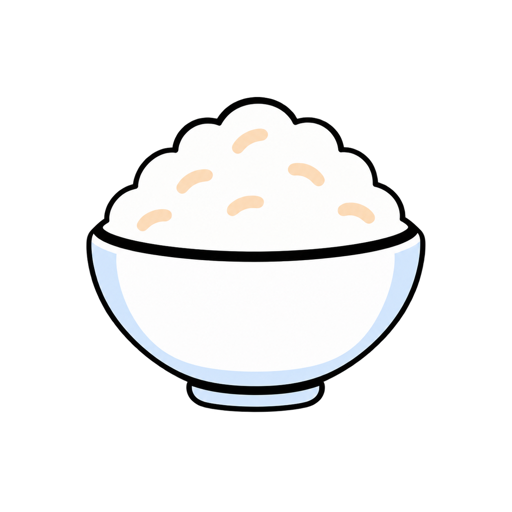
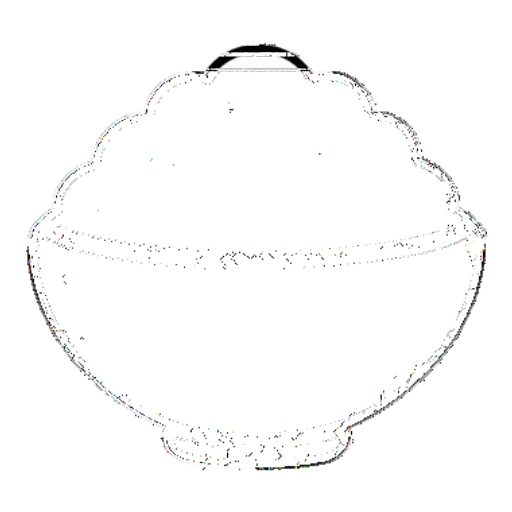
perf: 트래픽 최적화 프리셋 적용 및 게임 개발 가이드 문서화

diff --git a/app/lib/swrConfig.ts b/app/lib/swrConfig.ts
@@ -1,0 +1,85 @@
+import type { SWRConfiguration } from 'swr';
+
+/**
+ * 모여밥 서비스 전역에서 일관된 트래픽 관리를 위해 사용하는 SWR 폴링 프리셋입니다.
+ * Supabase Egress 및 Vercel Function 호출을 최소화하기 위해
+ * 반드시 refreshWhenHidden: false (탭 비활성화 시 폴링 정지)를 포함합니다.
+ */
+export const POLLING_PRESETS = {
+  /**
+   * 실시간 게임 룸 (바둑, 체스, 오목, 알까기, 원나잇 인랑, 퐁, 루미큐브, 폰 등)
+   * - 주요 상태 변경은 Supabase Realtime으로 즉시 수신하되, 네트워크 순단 fallback으로 8초 폴링을 둡니다.
+   */
+  GAME_ROOM: {
+    refreshInterval: 8000,
+    refreshWhenHidden: false,
+    revalidateOnFocus: true,
+    dedupingInterval: 2000,
+  } satisfies SWRConfiguration,
+
+  /**
+   * 팟 상세 화면 (/pots/[id])
+   * - 참여자 변동 및 상태 확인을 위한 10초 폴링
+   */
+  POT_DETAIL: {
+    refreshInterval: 10000,
+    refreshWhenHidden: false,
+    revalidateOnFocus: true,
+    dedupingInterval: 2000,
+  } satisfies SWRConfiguration,
+
+  /**
+   * 메인 팟 목록/현황판 (/)
+   * - 12초 폴링
+   */
+  POT_LIST: {
+    refreshInterval: 12000,
+    refreshWhenHidden: false,
+    revalidateOnFocus: true,
+    dedupingInterval: 2000,
+  } satisfies SWRConfiguration,
+
+  /**
+   * 게임 로비 / 열린 방 목록
+   * - 8초 폴링
+   */
+  GAME_LOBBY: {
+    refreshInterval: 8000,
+    refreshWhenHidden: false,
+    revalidateOnFocus: true,
+    dedupingInterval: 2000,
+  } satisfies SWRConfiguration,
+
+  /**
+   * 게임 랭킹 / 명예의 전당
+   * - 20초 폴링
+   */
+  GAME_RANKING: {
+    refreshInterval: 20000,
+    refreshWhenHidden: false,
+    revalidateOnFocus: true,
+    dedupingInterval: 5000,
+  } satisfies SWRConfiguration,
+
+  /**
+   * 팟 및 게임 채팅 fallback
+   * - 6초 폴링
+   */
+  CHAT_FALLBACK: {
+    refreshInterval: 6000,
+    refreshWhenHidden: false,
+    revalidateOnFocus: true,
+    dedupingInterval: 2000,
+  } satisfies SWRConfiguration,
+
+  /**
+   * 내 참여 팟 목록 (/my) 및 알림
+   * - 15초 폴링
+   */
+  USER_HUB: {
+    refreshInterval: 15000,
+    refreshWhenHidden: false,
+    revalidateOnFocus: true,
+    dedupingInterval: 3000,
+  } satisfies SWRConfiguration,
+} as const;

diff --git a/app/components/moyeobap/AlkkagiRoom.tsx b/app/components/moyeobap/AlkkagiRoom.tsx
@@ -4,6 +4,7 @@ import { useEffect, useRef, useState } from 'react';
 import { useRouter } from 'next/navigation';
 import useSWR from 'swr';
 import { fetcher } from '../../lib/fetcher';
+import { POLLING_PRESETS } from '../../lib/swrConfig';
 import { getErrorMessage, requestJson } from '../../lib/api-client';
 import { createSupabaseBrowserClient } from '../../lib/supabase/client';
 import { TURN_LIMIT_MS, isTurnExpired, remainingTurnMs } from '../../lib/alkkagiMatch';
@@ -52,7 +53,7 @@ export function AlkkagiRoom({ roomId }: { roomId: string }) {
   const { data, error, mutate } = useSWR<{ room: AlkkagiRoomData }>(
     `/api/games/alkkagi/rooms/${roomId}`,
     fetcher,
-    { refreshInterval: 2000 },
+    POLLING_PRESETS.GAME_ROOM,
   );
   const room = data?.room;
 

diff --git a/app/components/moyeobap/OneNightRoom.tsx b/app/components/moyeobap/OneNightRoom.tsx
@@ -4,6 +4,7 @@ import { useEffect, useState } from 'react';
 import { useRouter } from 'next/navigation';
 import useSWR from 'swr';
 import { fetcher } from '../../lib/fetcher';
+import { POLLING_PRESETS } from '../../lib/swrConfig';
 import { getErrorMessage, requestJson } from '../../lib/api-client';
 import { createSupabaseBrowserClient } from '../../lib/supabase/client';
 import {
@@ -131,7 +132,7 @@ export function OneNightRoom({ roomId }: { roomId: string }) {
   const { data, error, mutate } = useSWR<{ room: Room; view: PrivateView | null }>(
     `/api/games/onenight/rooms/${roomId}`,
     fetcher,
-    { refreshInterval: 2000 },
+    POLLING_PRESETS.GAME_ROOM,
   );
   const room = data?.room;
   const view = data?.view ?? null;

diff --git a/docs/GAME_DEV_GUIDE.md b/docs/GAME_DEV_GUIDE.md
@@ -1,0 +1,76 @@
+# 🎮 모여밥 신규 게임 & 실시간 기능 개발 가이드
+
+새로운 미니게임이나 실시간 협업 기능을 개발할 때 **Supabase Egress(대역폭 5GB) 및 Vercel 사용량 한도를 초과하지 않도록** 아래 지침을 반드시 준수해야 합니다.
+
+---
+
+## 1. 실시간 상태 동기화 표준 (SWR Polling)
+
+모든 게임 룸, 로비, 랭킹 화면에서 `useSWR`를 사용할 때는 직접 옵션을 작성하지 않고 **`app/lib/swrConfig.ts`의 `POLLING_PRESETS`**를 import하여 사용합니다.
+
+### ✅ 올바른 코드 예시
+
+```tsx
+import useSWR from 'swr';
+import { fetcher } from '../../lib/fetcher';
+import { POLLING_PRESETS } from '../../lib/swrConfig';
+
+export function MyNewGameRoom({ roomId }: { roomId: string }) {
+  // 실시간 게임 룸 (8초 폴링 + 탭 비활성화 시 자동 정지)
+  const { data, mutate } = useSWR(
+    `/api/games/my-game/rooms/${roomId}`,
+    fetcher,
+    POLLING_PRESETS.GAME_ROOM,
+  );
+  
+  // ...
+}
+```
+
+### ❌ 절대 피해야 할 패턴
+
+```tsx
+// ❌ refreshWhenHidden이 없거나 주기가 너무 짧음 (사용자가 탭을 켜두고 자면 수 GB 트래픽 발생)
+const { data } = useSWR(url, fetcher, { refreshInterval: 1000 }); 
+```
+
+---
+
+## 2. Supabase Realtime 채널 & 브로드캐스트 규칙
+
+### A. 방 나가기 / 언마운트 시 채널 완벽 정리 (Clean-up)
+소켓 채널을 제대로 닫지 않으면 컴포넌트가 언마운트되어도 백그라운드에서 계속 메시지를 수신하여 트래픽이 낭비됩니다.
+
+```tsx
+useEffect(() => {
+  const supabase = createSupabaseBrowserClient();
+  const channel = supabase.channel(`game-room-${roomId}`);
+
+  channel
+    .on('broadcast', { event: 'state' }, (payload) => {
+      // 상태 수신
+    })
+    .subscribe();
+
+  // ✅ 반드시 클린업 함수에서 removeChannel 호출
+  return () => {
+    supabase.removeChannel(channel);
+  };
+}, [roomId]);
+```
+
+### B. 브로드캐스트 주기 제한
+- 퐁이나 실시간 물리 엔진 게임처럼 초당 여러 번 상태를 전송해야 하는 경우, 전송 주기는 **최소 50ms (초당 20회 이하)**로 제한합니다.
+- 단순 턴제 게임(오목, 바둑, 체스, 원나잇 인랑 등)은 매 틱마다 브로드캐스트하지 말고, **사용자가 돌을 놓거나 행동을 취했을 때만 1회성 전송**합니다.
+
+---
+
+## 3. 신규 게임 개발 체크리스트
+
+새 기능을 PR 올리기 전 아래 항목을 체크하세요:
+
+- [ ] `useSWR`에 `POLLING_PRESETS`를 적용했는가?
+- [ ] 브라우저 다른 탭으로 전환했을 때 네트워크 요청(Fetch)이 멈추는가? (`refreshWhenHidden: false`)
+- [ ] Supabase Realtime 채널 구독 후 `useEffect` 클린업에서 `removeChannel`을 호출하는가?
+- [ ] 게임 방 삭제/종료 시 방 데이터가 무한정 쌓이지 않고 만료 로직이 동작하는가?
+- [ ] 데이터베이스 마이그레이션 파일이 `supabase/migrations/YYYYMMDD000000_add_[game].sql` 규칙을 따르는가?

diff --git a/AGENTS.md b/AGENTS.md
@@ -300,3 +300,31 @@
 - 로그인한 사용자는 프로필에서 간단한 텍스트 피드백을 보낼 수 있다.
 - 피드백에는 사용자가 작성한 내용과 작성 당시의 서비스 내부 경로만 저장한다.
 - 피드백 입력은 프로토타입에서 5~1,000자로 제한한다(2026-08-13 확정).
+
+## 13. 네트워크 트래픽 & 실시간 통신 최적화 기준 (2026-08-30 확정)
+
+Supabase Free Plan의 월간 Egress(아웃바운드 전송량, 5GB) 및 Vercel Function
+호출 한도를 보호하기 위해, 모든 클라이언트 실시간/폴링 통신은 아래 규칙을
+엄격히 준수한다.
+
+- **표준 SWR 프리셋 사용 의무**: 모든 컴포넌트의 데이터 폴링은
+  `app/lib/swrConfig.ts`에 정의된 `POLLING_PRESETS`를 사용해야 한다.
+  임의로 2~3초대의 짧은 폴링 주기를 개별 작성하지 않는다.
+- **백그라운드 탭 차단 (`refreshWhenHidden: false`)**: 사용자가 다른 탭이나
+  창을 보고 있을 때는 불필요한 DB 트래픽을 유발하지 않도록 폴링을 즉시 정지해야
+  한다.
+- **주기 기준**:
+  - 실시간 게임 룸 (바둑, 체스, 오목, 알까기, 원나잇 등): 8초 (`GAME_ROOM`)
+  - 팟 상세 화면: 10초 (`POT_DETAIL`)
+  - 메인 팟 목록/현황판: 12초 (`POT_LIST`)
+  - 게임 로비/방 목록: 8초 (`GAME_LOBBY`)
+  - 랭킹/명예의 전당: 20초 (`GAME_RANKING`)
+- **실시간 웹소켓(Realtime Broadcast) 및 채널 구독**:
+  - 게임 물리/상태 브로드캐스트 주기는 초당 10~20회를 넘지 않도록 제한한다.
+  - 컴포넌트 언마운트(`useEffect cleanup`) 또는 방을 나갈 때 반드시
+    `supabase.removeChannel(channel)`로 구독을 완벽히 해제하여 고아 소켓
+    연결이 남지 않도록 한다.
+- **정적 데이터 캐싱**:
+  - 식당 및 메뉴 기준 데이터(112곳, 548개)는 DB를 실시간 조회하지 않고
+    프론트 정적 데이터(`restaurants.ts`)를 사용하여 DB Egress를 0으로 유지한다.
+
